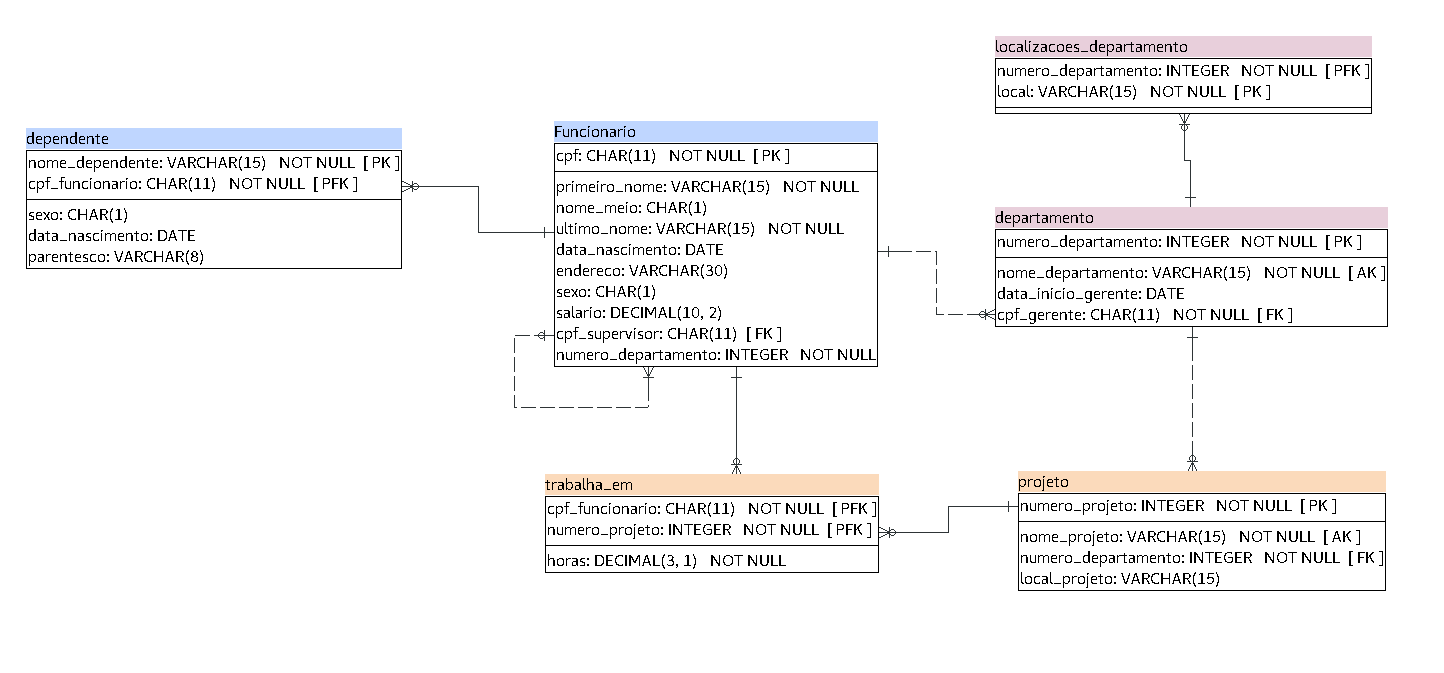
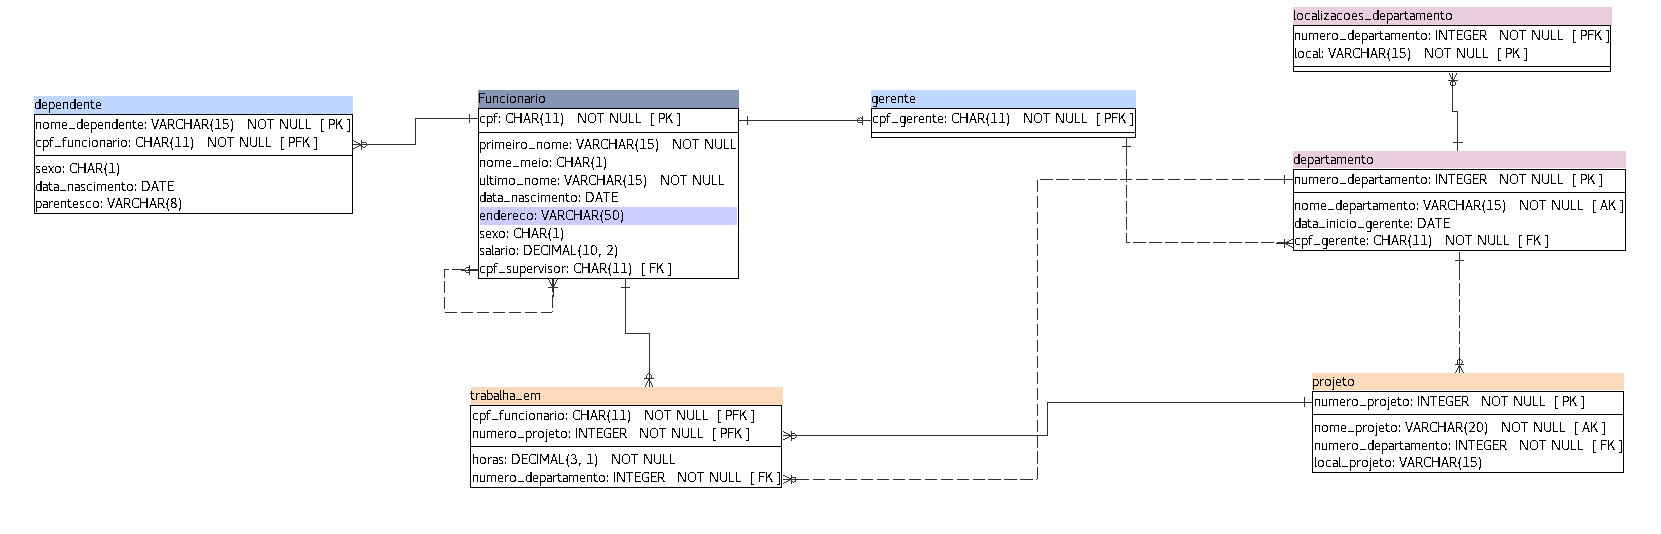
MariaDB versão final

diff --git a/pset1/esquema_elmasri.html b/pset1/esquema_elmasri.html
@@ -86,15 +86,14 @@
         padding:0.25em;
       }
     </style>
-        <title>elmasri</title>
+        <title>esquema_elmasri_architect</title>
     </head>
     <body>
         <center>
-            <h2>Elmasri</h2>
+            <h2>esquema_elmasri_architect</h2>
         </center>
         <img src="esquema_elmasri_bernardo.png" alt="esquema_elmasri_bernardo">
         <h3>List of tables</h3>
-         <h3>List of tables</h3>
         <ul>
             <li>
                 <a href="#departamento">departamento</a>
@@ -104,6 +103,9 @@
             </li>
             <li>
                 <a href="#Funcionario">Funcionario</a>
+            </li>
+            <li>
+                <a href="#gerente">gerente</a>
             </li>
             <li>
                 <a href="#localizacoes_departamento">localizacoes_departamento</a>
@@ -122,7 +124,6 @@
             <h2>
       (Physical Name: departamento)
       </h2>
-            <p class="comment">Tabela que armazena as informa&ccedil;o&#7869;s dos departamentos.</p>
         </div>
         <div class="table">
             <table class="tableDefinition" width="100%">
@@ -155,12 +156,12 @@
                 </tr>
                 <tr valign="top">
                     <td class="tdTableDefinition">cpf_gerente
-                &nbsp;(<a href="#Funcionario">FK</a>)
+                &nbsp;(<a href="#gerente">FK</a>)
               </td><td class="tdTableDefinition">cpf_gerente</td><td class="tdTableDefinition">CHAR</td><td class="tdTableDefinition" nowrap></td><td class="tdTableDefinition" nowrap>NOT NULL</td>
                 </tr>
                 <tr>
                     <td colspan="4">
-                        <div class="comment">CPF do gerente do departamento. &Eacute; uma FK para a tabela funcion&aacute;rios.</div>
+                        <div class="comment">CPF do gerente do departamento. &Eacute; uma FK para a tabela gerente.</div>
                     </td>
                 </tr>
             </table>
@@ -168,7 +169,7 @@
                 <p class="subTitle">References</p>
                 <ul>
                     <li>
-                        <a href="#Funcionario">Funcionario</a> through (cpf_gerente)
+                        <a href="#gerente">gerente</a> through (cpf_gerente)
                     </li>
                 </ul>
                 <p class="subTitle">Referenced By</p>
@@ -180,7 +181,7 @@
                         <a href="#localizacoes_departamento">localizacoes_departamento</a> referencing (numero_departamento)
                     </li>
                     <li>
-                        <a href="#Funcionario">Funcionario</a> referencing (numero_departamento)
+                        <a href="#trabalha_em">trabalha_em</a> referencing (numero_departamento)
                     </li>
                 </ul>
             </div>
@@ -192,7 +193,6 @@
             <h2>
       (Physical Name: dependente)
       </h2>
-            <p class="comment">Tabela que armazena as informa&ccedil;&otilde;es dos dependentes dos funcion&aacute;rios.</p>
         </div>
         <div class="table">
             <table class="tableDefinition" width="100%">
@@ -258,7 +258,6 @@
             <h2>
       (Physical Name: funcionario)
       </h2>
-            <p class="comment">Tabela que armazena as informa&ccedil;&otilde;es dos funcion&aacute;rios.</p>
         </div>
         <div class="table">
             <table class="tableDefinition" width="100%">
@@ -306,7 +305,7 @@
                     </td>
                 </tr>
                 <tr valign="top">
-                    <td class="tdTableDefinition">endereco</td><td class="tdTableDefinition">endereco</td><td class="tdTableDefinition">VARCHAR(30)</td><td class="tdTableDefinition" nowrap></td><td class="tdTableDefinition" nowrap></td>
+                    <td class="tdTableDefinition">endereco</td><td class="tdTableDefinition">endereco</td><td class="tdTableDefinition">VARCHAR(50)</td><td class="tdTableDefinition" nowrap></td><td class="tdTableDefinition" nowrap></td>
                 </tr>
                 <tr>
                     <td colspan="4">
@@ -336,17 +335,7 @@
                 </tr>
                 <tr>
                     <td colspan="4">
-                        <div class="comment">CPF do supervisor. &Eacute; uma FK para a pr&oacute;pria tabela, pois o supervisor tamb&eacute;m &eacute; um funcion&aacute;rio. Pode ser NULL porque o presidente da impresa não tem supervisor</div>
-                    </td>
-                </tr>
-                <tr valign="top">
-                    <td class="tdTableDefinition">numero_departamento
-                &nbsp;
-              </td><td class="tdTableDefinition">numero_departamento</td><td class="tdTableDefinition">INTEGER</td><td class="tdTableDefinition" nowrap></td><td class="tdTableDefinition" nowrap>NOT NULL</td>
-                </tr>
-                <tr>
-                    <td colspan="4">
-                        <div class="comment">N&uacute;mero do departamento do funcion&aacute;rio.</div>
+                        <div class="comment">CPF do supervisor. &Eacute; uma FK para a pr&oacute;pria tabela, pois o supervisor tamb&eacute;m &eacute; um funcion&aacute;rio.</div>
                     </td>
                 </tr>
             </table>
@@ -355,9 +344,6 @@
                 <ul>
                     <li>
                         <a href="#Funcionario">Funcionario</a> through (cpf_supervisor)
-                    </li>
-                    <li>
-                        <a href="#departamento">departamento</a> through (numero_departamento)
                     </li>
                 </ul>
                 <p class="subTitle">Referenced By</p>
@@ -372,7 +358,47 @@
                         <a href="#trabalha_em">trabalha_em</a> referencing (cpf)
                     </li>
                     <li>
-                        <a href="#departamento">departamento</a> referencing (cpf)
+                        <a href="#gerente">gerente</a> referencing (cpf)
+                    </li>
+                </ul>
+            </div>
+        </div>
+        <div class="tableNameHeading">
+            <h1>
+                gerente<a name="gerente"></a>
+            </h1>
+            <h2>
+      (Physical Name: gerente)
+      </h2>
+            <p class="comment">Funcion&aacute;rios que s&atilde;o gerentes de departamentos</p>
+        </div>
+        <div class="table">
+            <table class="tableDefinition" width="100%">
+                <tr>
+                    <td class="tdTableHeading tdLogicalColName">Logical Column Name</td><td class="tdTableHeading tdPhysicalColName">Physical Column Name</td><td class="tdTableHeading tdDataType">Type</td><td class="tdTableHeading tdPkFlag">PK</td><td class="tdTableHeading tdNullFlag">Nullable</td>
+                </tr>
+                <tr valign="top">
+                    <td class="tdTableDefinition">cpf_gerente (PK)
+                &nbsp;(<a href="#Funcionario">FK</a>)
+              </td><td class="tdTableDefinition">cpf_gerente</td><td class="tdTableDefinition">CHAR</td><td class="tdTableDefinition" nowrap>PK</td><td class="tdTableDefinition" nowrap>NOT NULL</td>
+                </tr>
+                <tr>
+                    <td colspan="4">
+                        <div class="comment">CPF do gerente do departamento. &Eacute; uma FK para a tabela funcionario.</div>
+                    </td>
+                </tr>
+            </table>
+            <div class="references">
+                <p class="subTitle">References</p>
+                <ul>
+                    <li>
+                        <a href="#Funcionario">Funcionario</a> through (cpf_gerente)
+                    </li>
+                </ul>
+                <p class="subTitle">Referenced By</p>
+                <ul>
+                    <li>
+                        <a href="#departamento">departamento</a> referencing (cpf_gerente)
                     </li>
                 </ul>
             </div>
@@ -384,11 +410,6 @@
             <h2>
       (Physical Name: localizacoes_departamento)
       </h2>
-            <p class="comment">
-                Tabela que armazena as poss&iacute;veis localiza&ccedil;&otilde;es dos departamentos.
-                <br>
-                <br>
-            </p>
         </div>
         <div class="table">
             <table class="tableDefinition" width="100%">
@@ -430,7 +451,6 @@
             <h2>
       (Physical Name: projeto)
       </h2>
-            <p class="comment">Tabela que armazena as informa&ccedil;&otilde;es sobre os projetos dos departamentos.</p>
         </div>
         <div class="table">
             <table class="tableDefinition" width="100%">
@@ -446,7 +466,7 @@
                     </td>
                 </tr>
                 <tr valign="top">
-                    <td class="tdTableDefinition">nome_projeto</td><td class="tdTableDefinition">nome_projeto</td><td class="tdTableDefinition">VARCHAR(15)</td><td class="tdTableDefinition" nowrap></td><td class="tdTableDefinition" nowrap>NOT NULL</td>
+                    <td class="tdTableDefinition">nome_projeto</td><td class="tdTableDefinition">nome_projeto</td><td class="tdTableDefinition">VARCHAR(20)</td><td class="tdTableDefinition" nowrap></td><td class="tdTableDefinition" nowrap>NOT NULL</td>
                 </tr>
                 <tr>
                     <td colspan="4">
@@ -494,7 +514,6 @@
             <h2>
       (Physical Name: trabalha_em)
       </h2>
-            <p class="comment">Tabela para armazenar quais funcion&aacute;rios trabalham em quais projetos.</p>
         </div>
         <div class="table">
             <table class="tableDefinition" width="100%">
@@ -524,12 +543,25 @@
                         <div class="comment">Horas trabalhadas pelo funcion&aacute;rio no projeto.</div>
                     </td>
                 </tr>
+                <tr valign="top">
+                    <td class="tdTableDefinition">numero_departamento
+                &nbsp;(<a href="#departamento">FK</a>)
+              </td><td class="tdTableDefinition">numero_departamento</td><td class="tdTableDefinition">INTEGER</td><td class="tdTableDefinition" nowrap></td><td class="tdTableDefinition" nowrap>NOT NULL</td>
+                </tr>
+                <tr>
+                    <td colspan="4">
+                        <div class="comment">Numero do departamento que o funcion&aacute;rio trabalha. &Eacute; uma FK para a tabela departamento</div>
+                    </td>
+                </tr>
             </table>
             <div class="references">
                 <p class="subTitle">References</p>
                 <ul>
                     <li>
                         <a href="#Funcionario">Funcionario</a> through (cpf_funcionario)
+                    </li>
+                    <li>
+                        <a href="#departamento">departamento</a> through (numero_departamento)
                     </li>
                     <li>
                         <a href="#projeto">projeto</a> through (numero_projeto)
